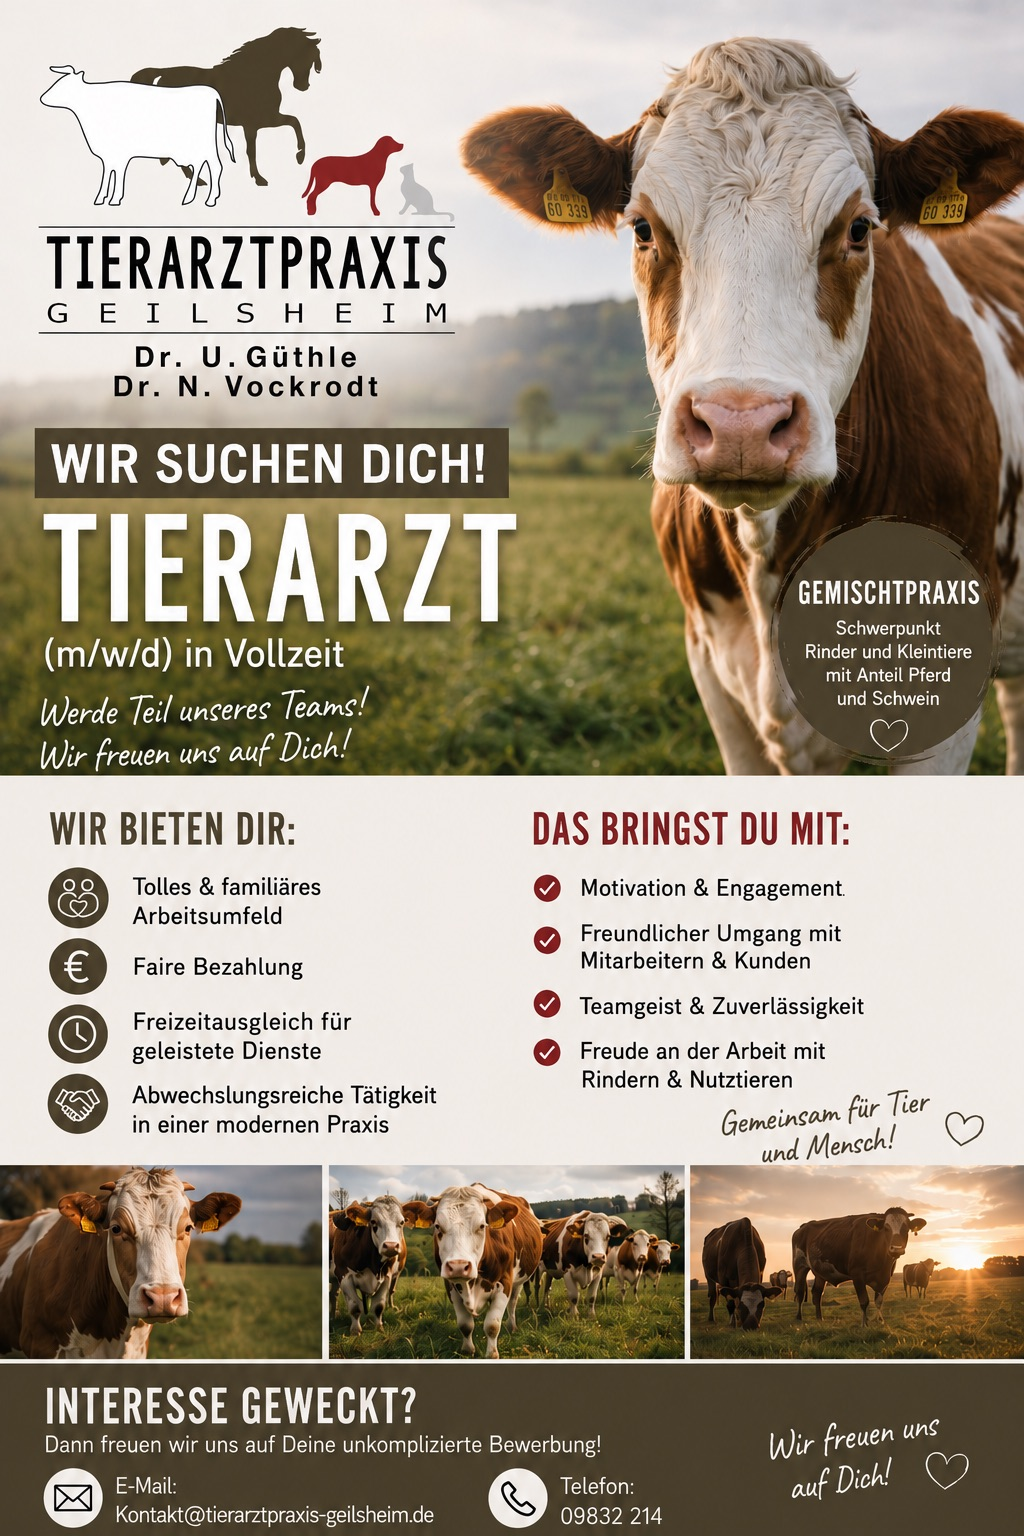
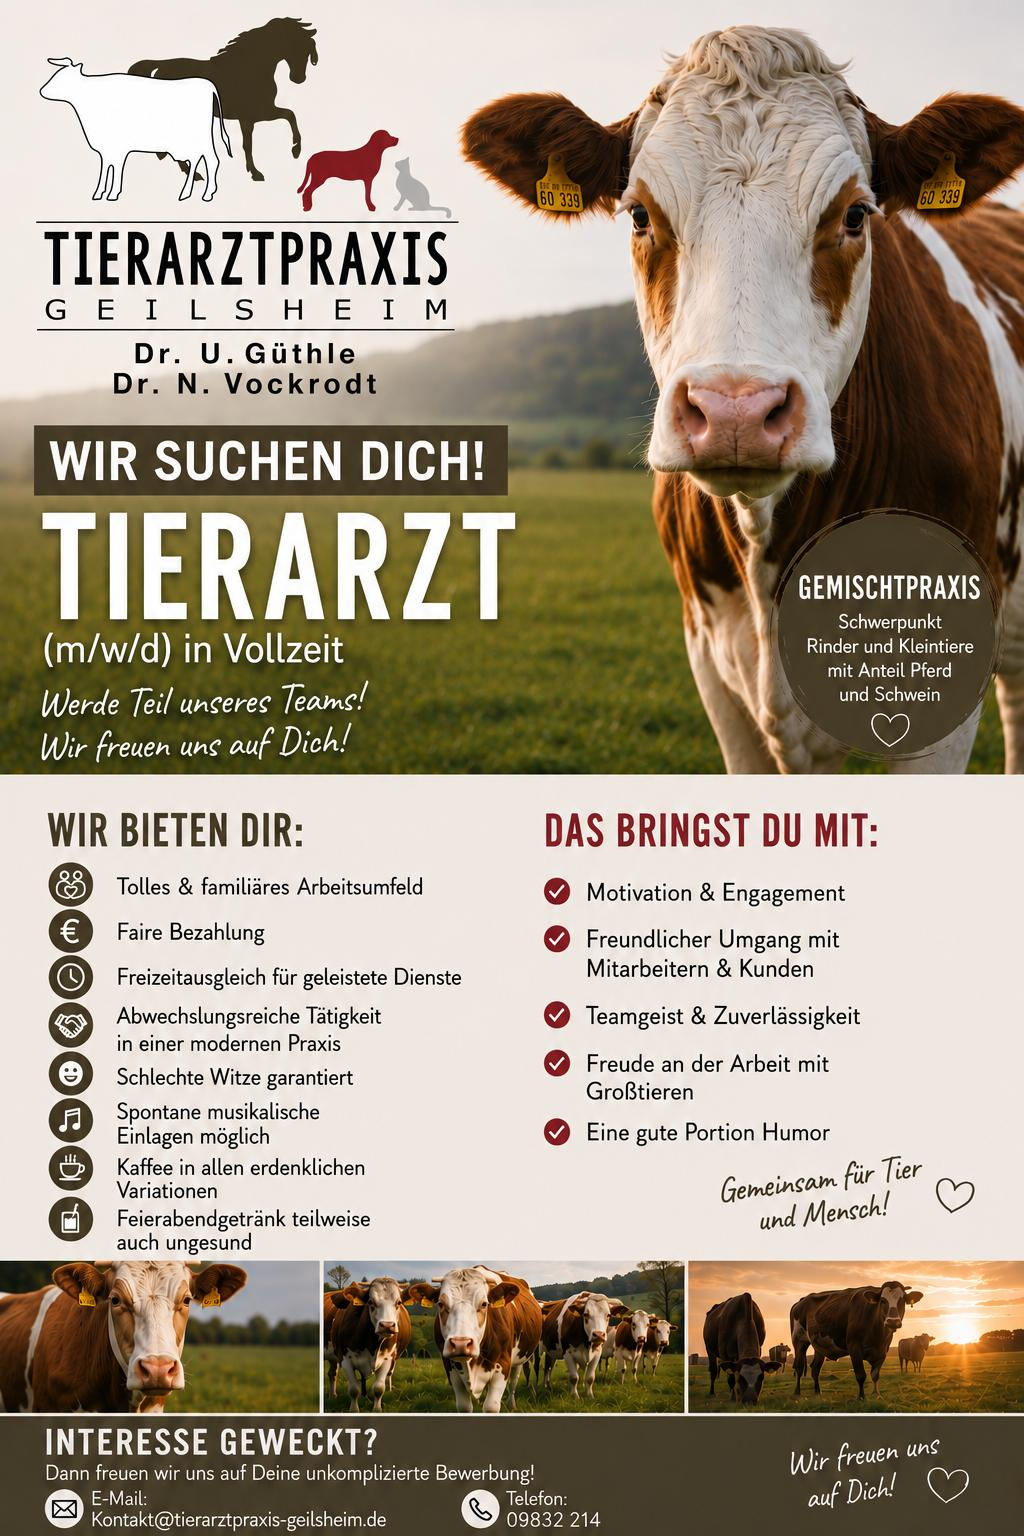
new version of job offer

diff --git a/karriere.html b/karriere.html
@@ -233,7 +233,8 @@
                                             <li>Motivation und Engagement</li>
                                             <li>Freundlicher Umgang mit Mitarbeitern und Kunden</li>
                                             <li>Teamgeist und Zuverlässigkeit</li>
-                                            <li>Freude an der Arbeit mit Rindern und Nutztieren</li>
+                                            <li>Freude an der Arbeit mit Großtieren</li>
+                                            <li>Eine gute Portion Humor</li>
                                         </ul>
                                     </div>
 
@@ -249,6 +250,10 @@
                                                     <li>Faire Bezahlung</li>
                                                     <li>Freizeitausgleich für geleistete Dienste</li>
                                                     <li>Abwechslungsreiche Tätigkeit in einer modernen Praxis</li>
+                                                    <li>Schlechte Witze garantiert</li>
+                                                    <li>Spontane musikalische Einlagen möglich</li>
+                                                    <li>Kaffee in allen erdenklichen Variationen</li>
+                                                    <li>Feierabendgetränke teilweise auch ungesund</li>
                                                 </ul>
                                             </div>
                                         </div>
